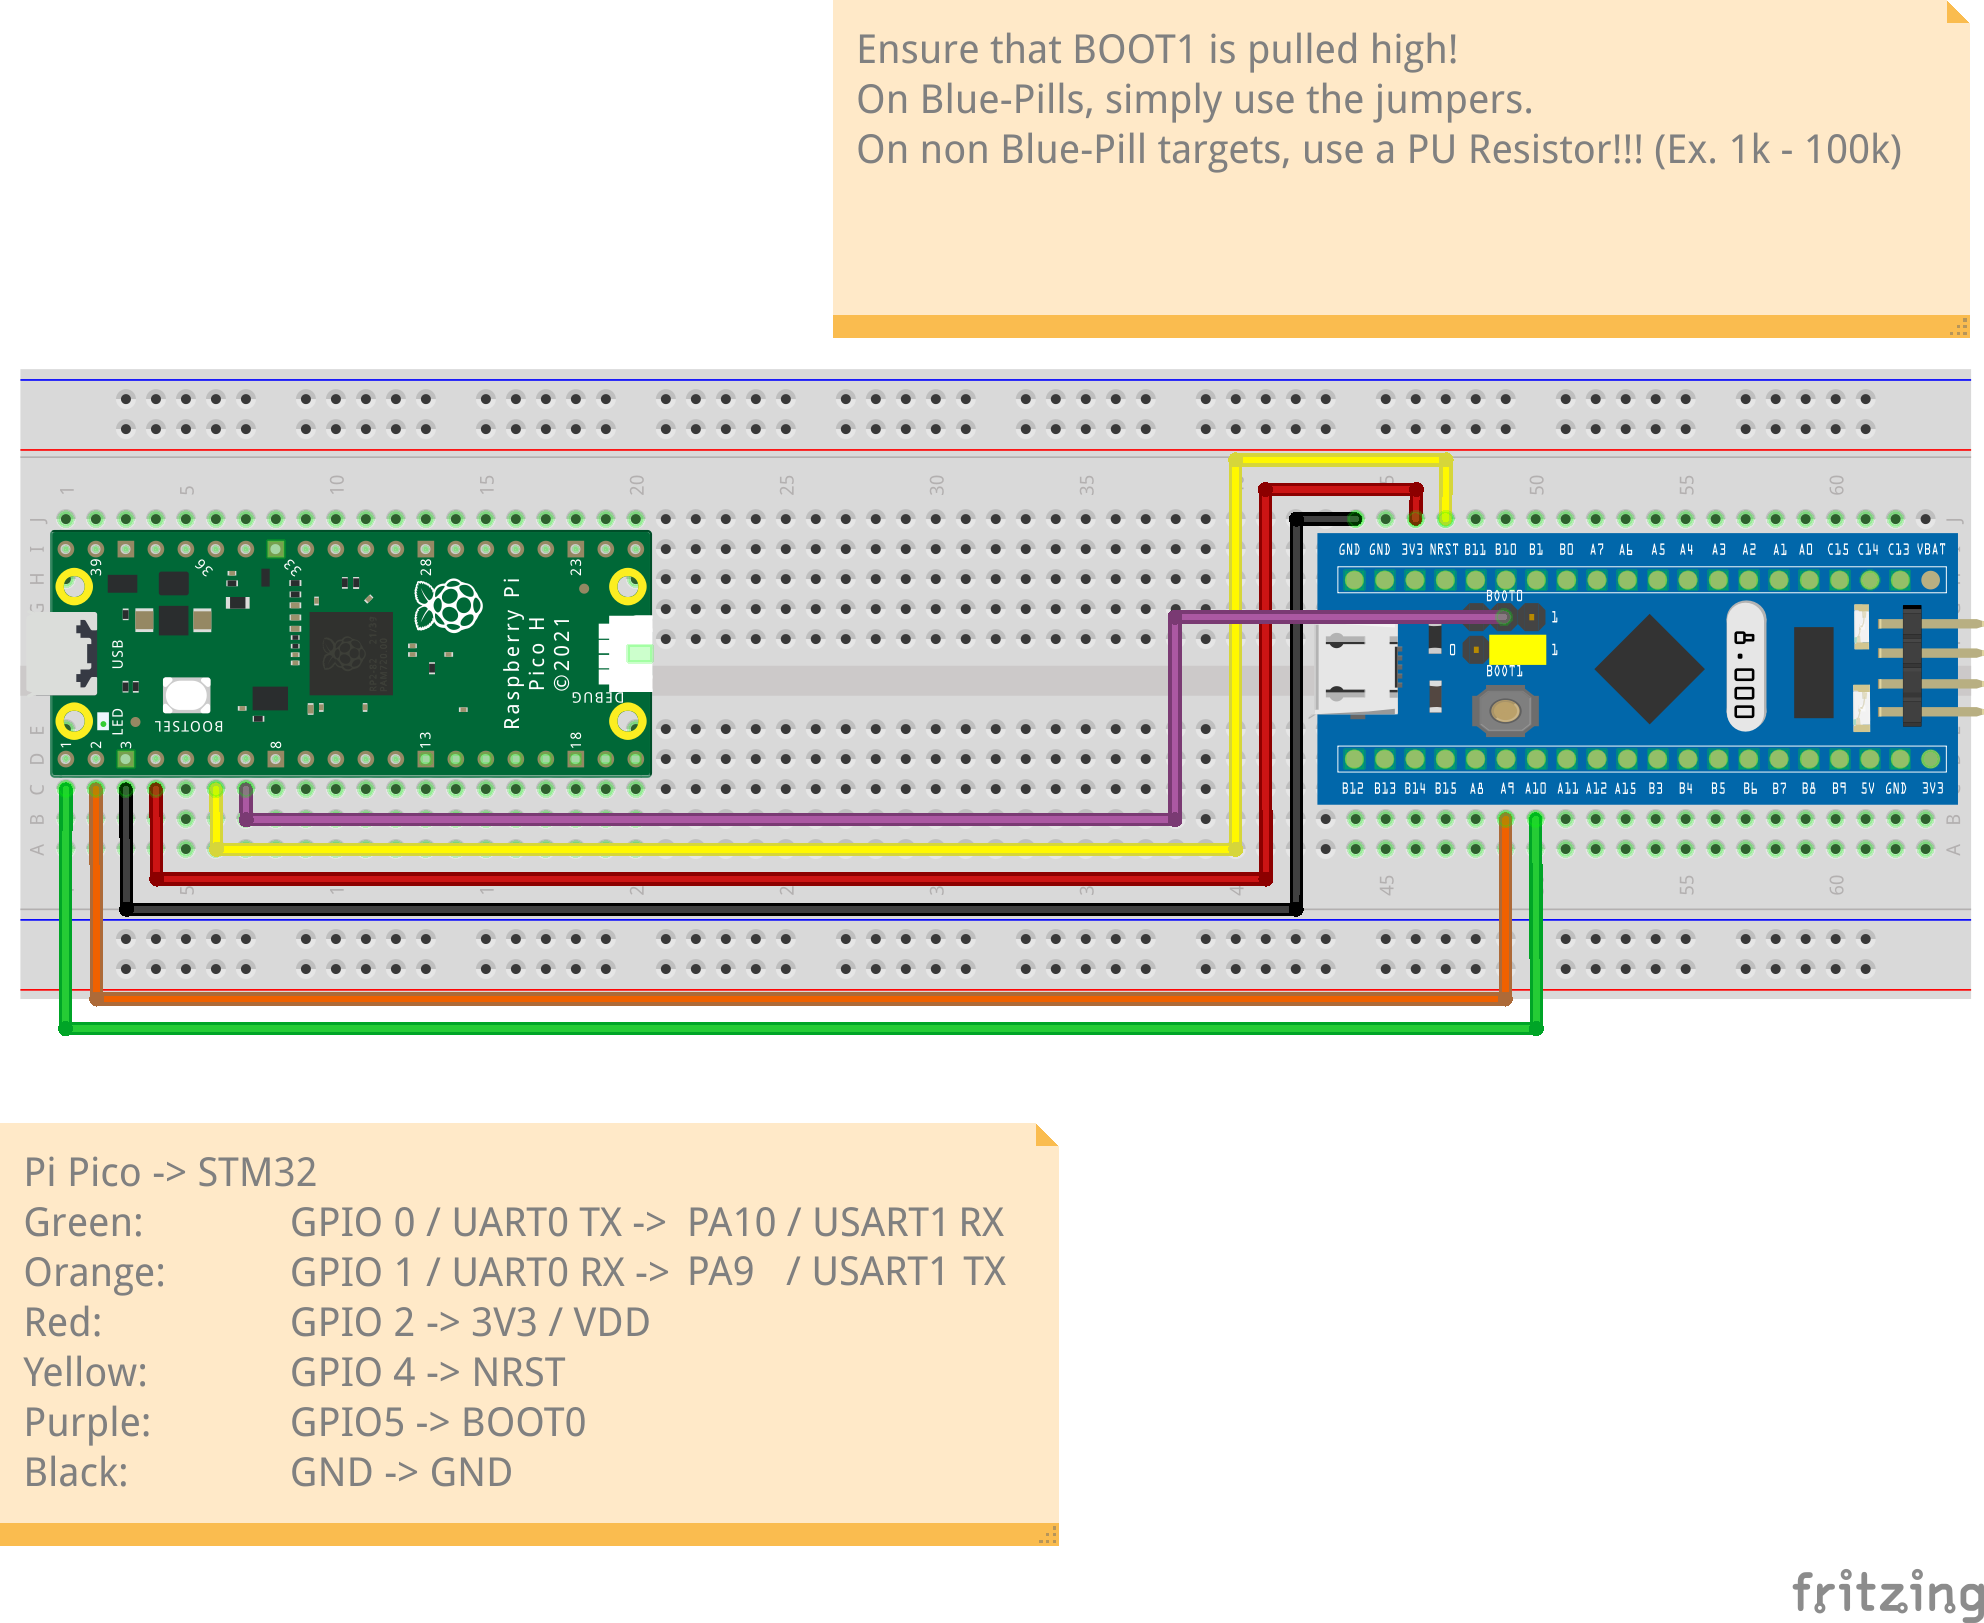
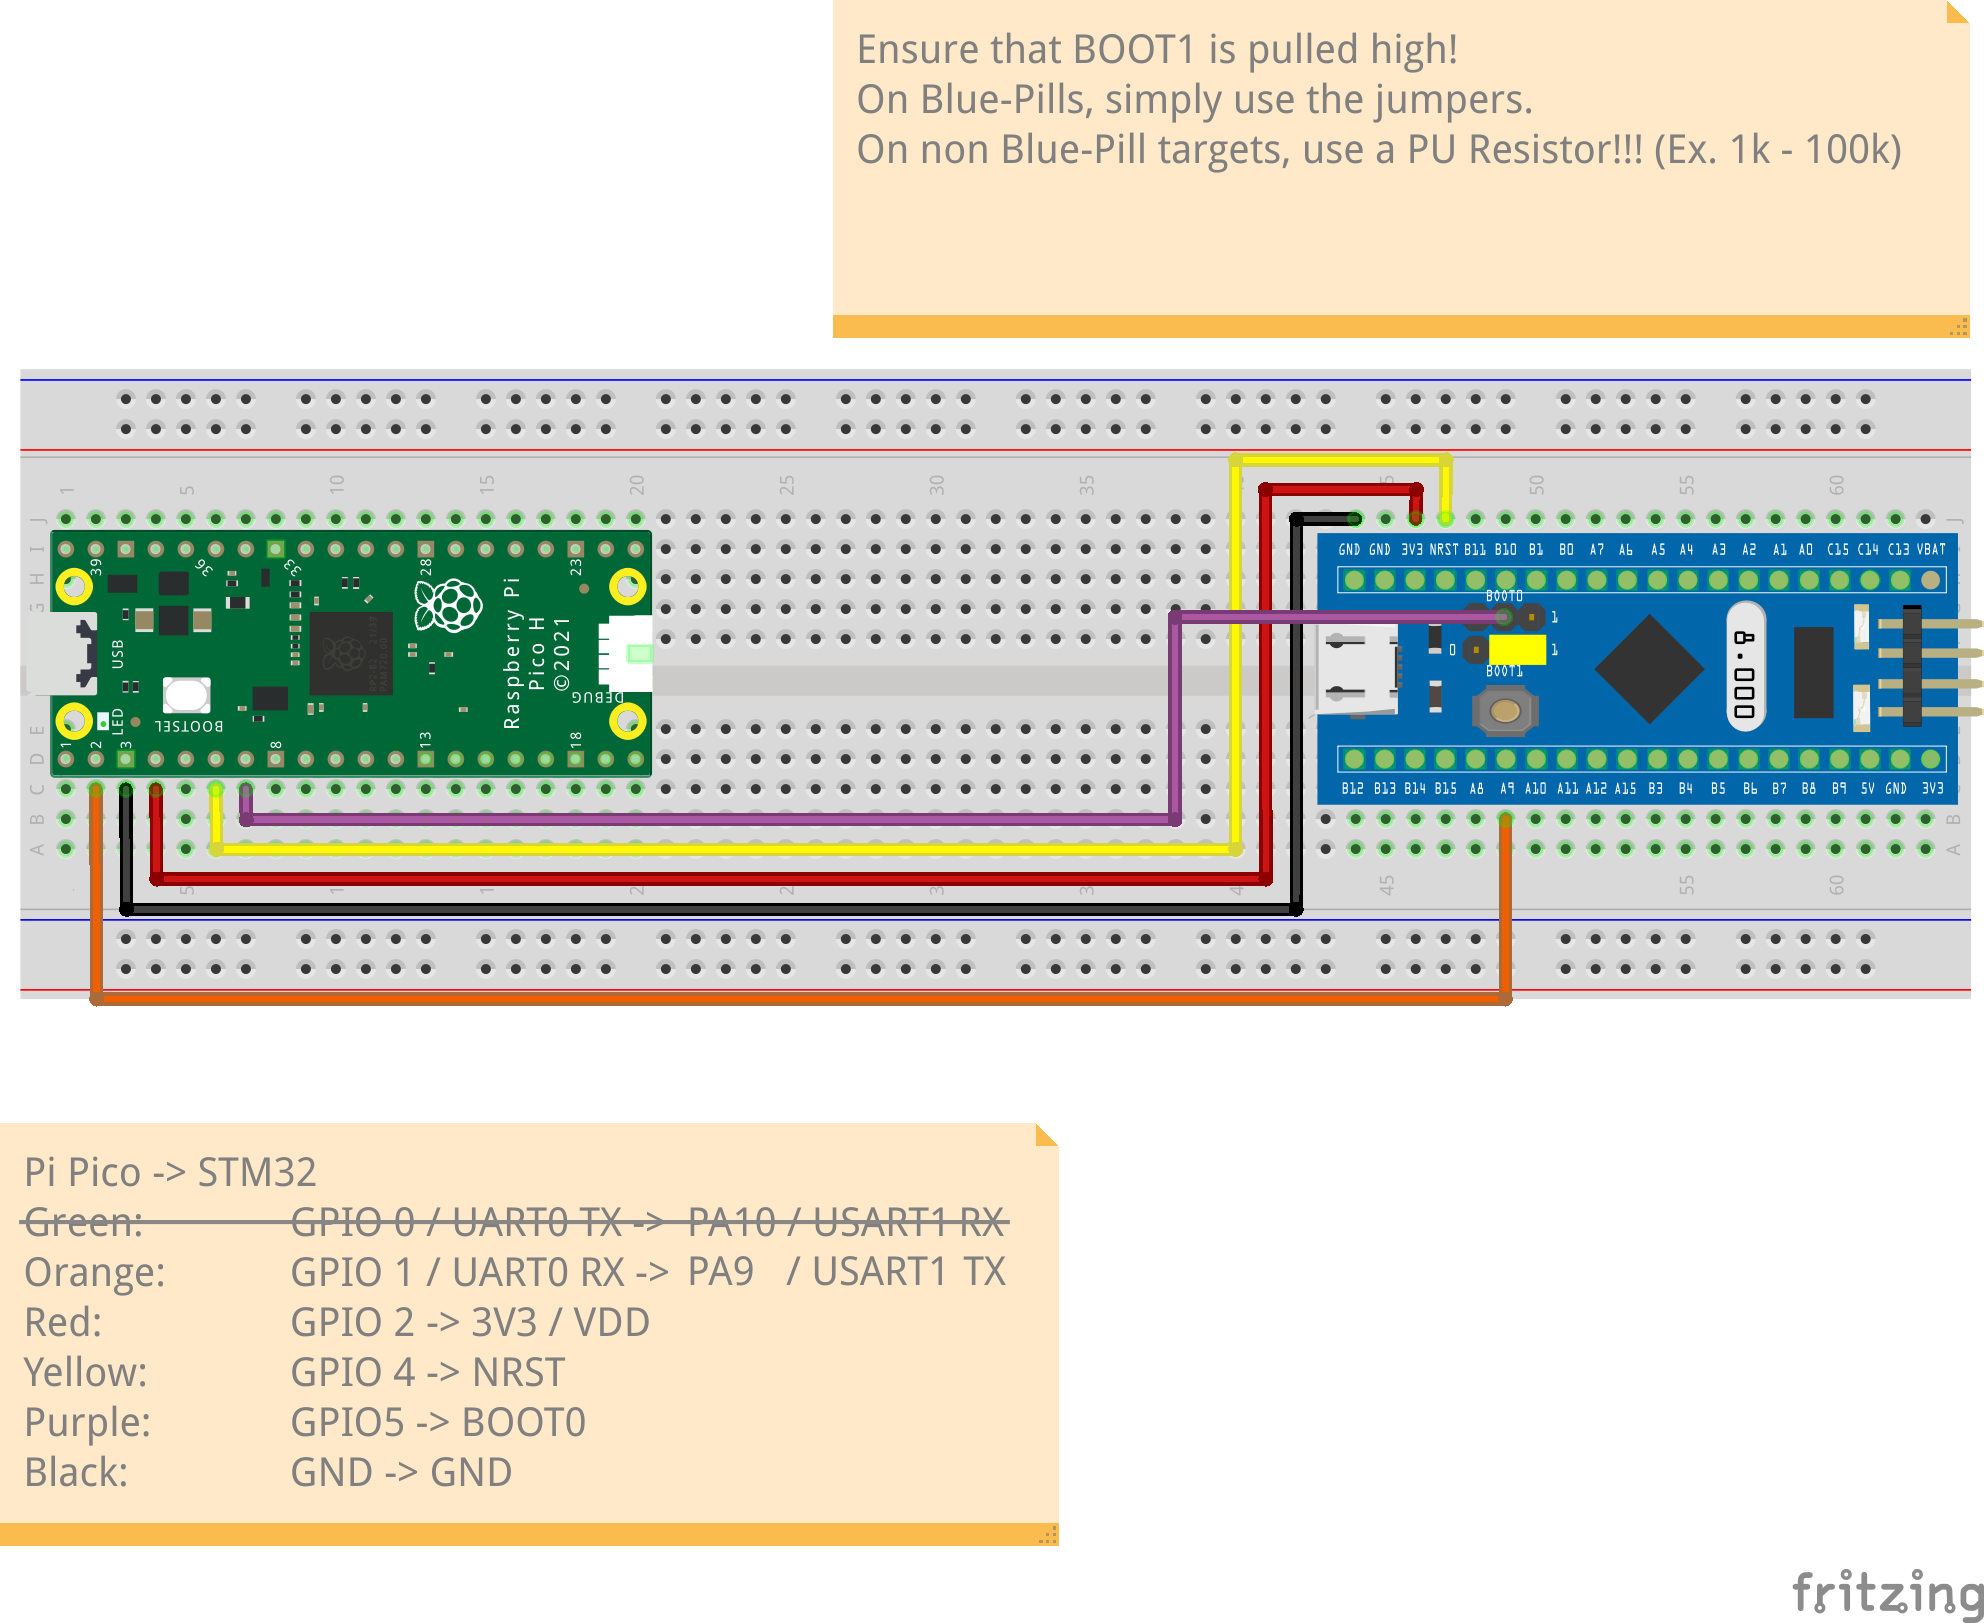
Target: Only use USART TX
RX is not required for our implementation since we've completely dropped the rootshell in
favour of straight up UART vomiting.

Changed region(s): [[0.0312, 0.4929, 0.7812, 0.647]]

diff --git a/dump.py b/dump.py
@@ -100,17 +100,17 @@ def print_instructions():
     print(
         "2. Connect the Pi Pico to the STM32F1 target as follows (left Pico, right STM):"
     )
-    print("    GND -> GND      ")
-    print("     0  -> USARTx_RX")
-    print("     1  -> USARTx_TX")
-    print("     2  -> VDD      ")
-    print("     4  -> NRST     ")
-    print("     5  -> BOOT0    ")
+    print("     GND     -> GND      ")
+    print("     GPIO 0  -> NO LONGER USED (previously USARTx_RX)")
+    print("     GPIO 1  -> USARTx_TX")
+    print("     GPIO 2  -> VDD      ")
+    print("     GPIO 4  -> NRST     ")
+    print("     GPIO 5  -> BOOT0    ")
     print("")
     print("Where:")
-    print("     USART1_RX = PA10, USART1_TX = PA9")
-    print("     USART2_RX = PA3,  USART2_TX = PA2")
-    print("     USART3_RX = PB11, USART3_TX = PB10")
+    print("     USART1_TX = PA9")
+    print("     USART2_TX = PA2")
+    print("     USART3_TX = PB10")
     print("")
     print("3. Follow further instructions provided by this script")
     print("For more detailed steps, see the README.md file.")
@@ -456,9 +456,9 @@ if sram_entry_offset_supported(sram_entry_point) == False:
 # Select USART if not provided alreay
 if args.usart is None:
     print("Please select the USART used by the STM32F1 target to dump firmware")
-    print("1: USART1 - RX: PA10 TX: PA9")
-    print("2: USART2 - RX: PA3  TX: PA2")
-    print("3: USART3 - RX: PB11 TX: PB10")
+    print("1: USART1 - TX: PA9")
+    print("2: USART2 - TX: PA2")
+    print("3: USART3 - TX: PB10")
     print("Enter 1, 2 or 3: ", end="")
     while True:
         choice = input()

diff --git a/target/main.c b/target/main.c
@@ -72,7 +72,7 @@ typedef struct __attribute__((packed))
 #define USART3 ((USART *)0x40004800u)
 
 #define USARTDIV 0x00000341u	  // 9600 baud @ 8Mhz
-#define USART_CR1_MSK 0x0000200Cu // 8-bit, no parity, enable RX/TX
+#define USART_CR1_MSK 0x00002008u // 8-bit, no parity, enable TX
 
 volatile USART *usart;
 
@@ -89,10 +89,6 @@ USART *init_usart1()
 	// Set PA9 (TX) to alternate function push-pull
 	GPIOA->CRH &= ~(0xF << 4);
 	GPIOA->CRH |= (PIN_CONFIG_ALT_PUSH_PULL << 4);
-
-	// Set PA10 (RX) to input pull-up
-	GPIOA->CRH &= ~(0xF << 8);
-	GPIOA->CRH |= (PIN_CONFIG_INPUT_PULL_UP << 8);
 
 	/* Configure and enable USART1 */
 	USART1->BRR = USARTDIV;
@@ -115,10 +111,6 @@ USART *init_usart2()
 	GPIOA->CRL &= ~(0xF << 8);
 	GPIOA->CRL |= (PIN_CONFIG_ALT_PUSH_PULL << 8);
 
-	// Set PA3 (RX) to input pull-up
-	GPIOA->CRL &= ~(0xF << 12);
-	GPIOA->CRL |= (PIN_CONFIG_INPUT_PULL_UP << 12);
-
 	/* Configure and enable USART2 */
 	USART2->BRR = USARTDIV;
 	USART2->CR1 = USART_CR1_MSK;
@@ -137,10 +129,6 @@ USART *init_usart3()
 	// Set PB10 (TX) to alternate function push-pull
 	GPIOB->CRH &= ~(0xF << 8);
 	GPIOB->CRH |= (PIN_CONFIG_ALT_PUSH_PULL << 8);
-
-	// Set PB11 (RX) to input pull-up
-	GPIOB->CRH &= ~(0xF << 12);
-	GPIOB->CRH |= (PIN_CONFIG_INPUT_PULL_UP << 12);
 
 	/* Configure and enable USART3 */
 	USART3->BRR = USARTDIV;

diff --git a/README.md b/README.md
@@ -120,21 +120,21 @@ Next, connect your Pi Pico to your target board as shown in the table below:
 | Pi Pico          | STM32F1   |
 | ---------------- | --------- |
 | GND              | GND       |
-| GPIO0 / UART0_TX | USARTx_RX |
+| ~~GPIO0 / UART0_TX~~ **NO LONGER USED**  | ~~USARTx_RX~~ **NO LONGER USED** |
 | GPIO1 / UART0_RX | USARTx_TX |
 | GPIO2            | VDD       |
 | GPIO4            | NRST      |
 | GPIO5            | BOOT0     |
 
-Where `USARTx_RX` and `USARTx_TX` are the `RX` and `TX` pins of the USART peripheral that will be used to dump the flash memory contents.
+Where `USARTx_TX` refers to the `TX` pin of a selected USART peripheral on the STM device, which will be utilized for transmitting the flash memory contents.
 
-The USART pins for STM32F1-series chips are assigned as follows:
+The USART TX pins for STM32F1-series chips are assigned as follows:
 
-| USART Peripheral | RX   | TX   |
-| ---------------- | ---- | ---- |
-| USART1           | PA10 | PA9  |
-| USART2           | PA3  | PA2  |
-| USART3           | PB11 | PB10 |
+| USART Peripheral | TX   |
+| ---------------- | ---- |
+| USART1           | PA9  |
+| USART2           | PA2  |
+| USART3           | PB10 |
 
 Below is a picture that shows the hardware setup using a Blue Pill board as the target board with `USART1` used to dump the flash memory:
 
